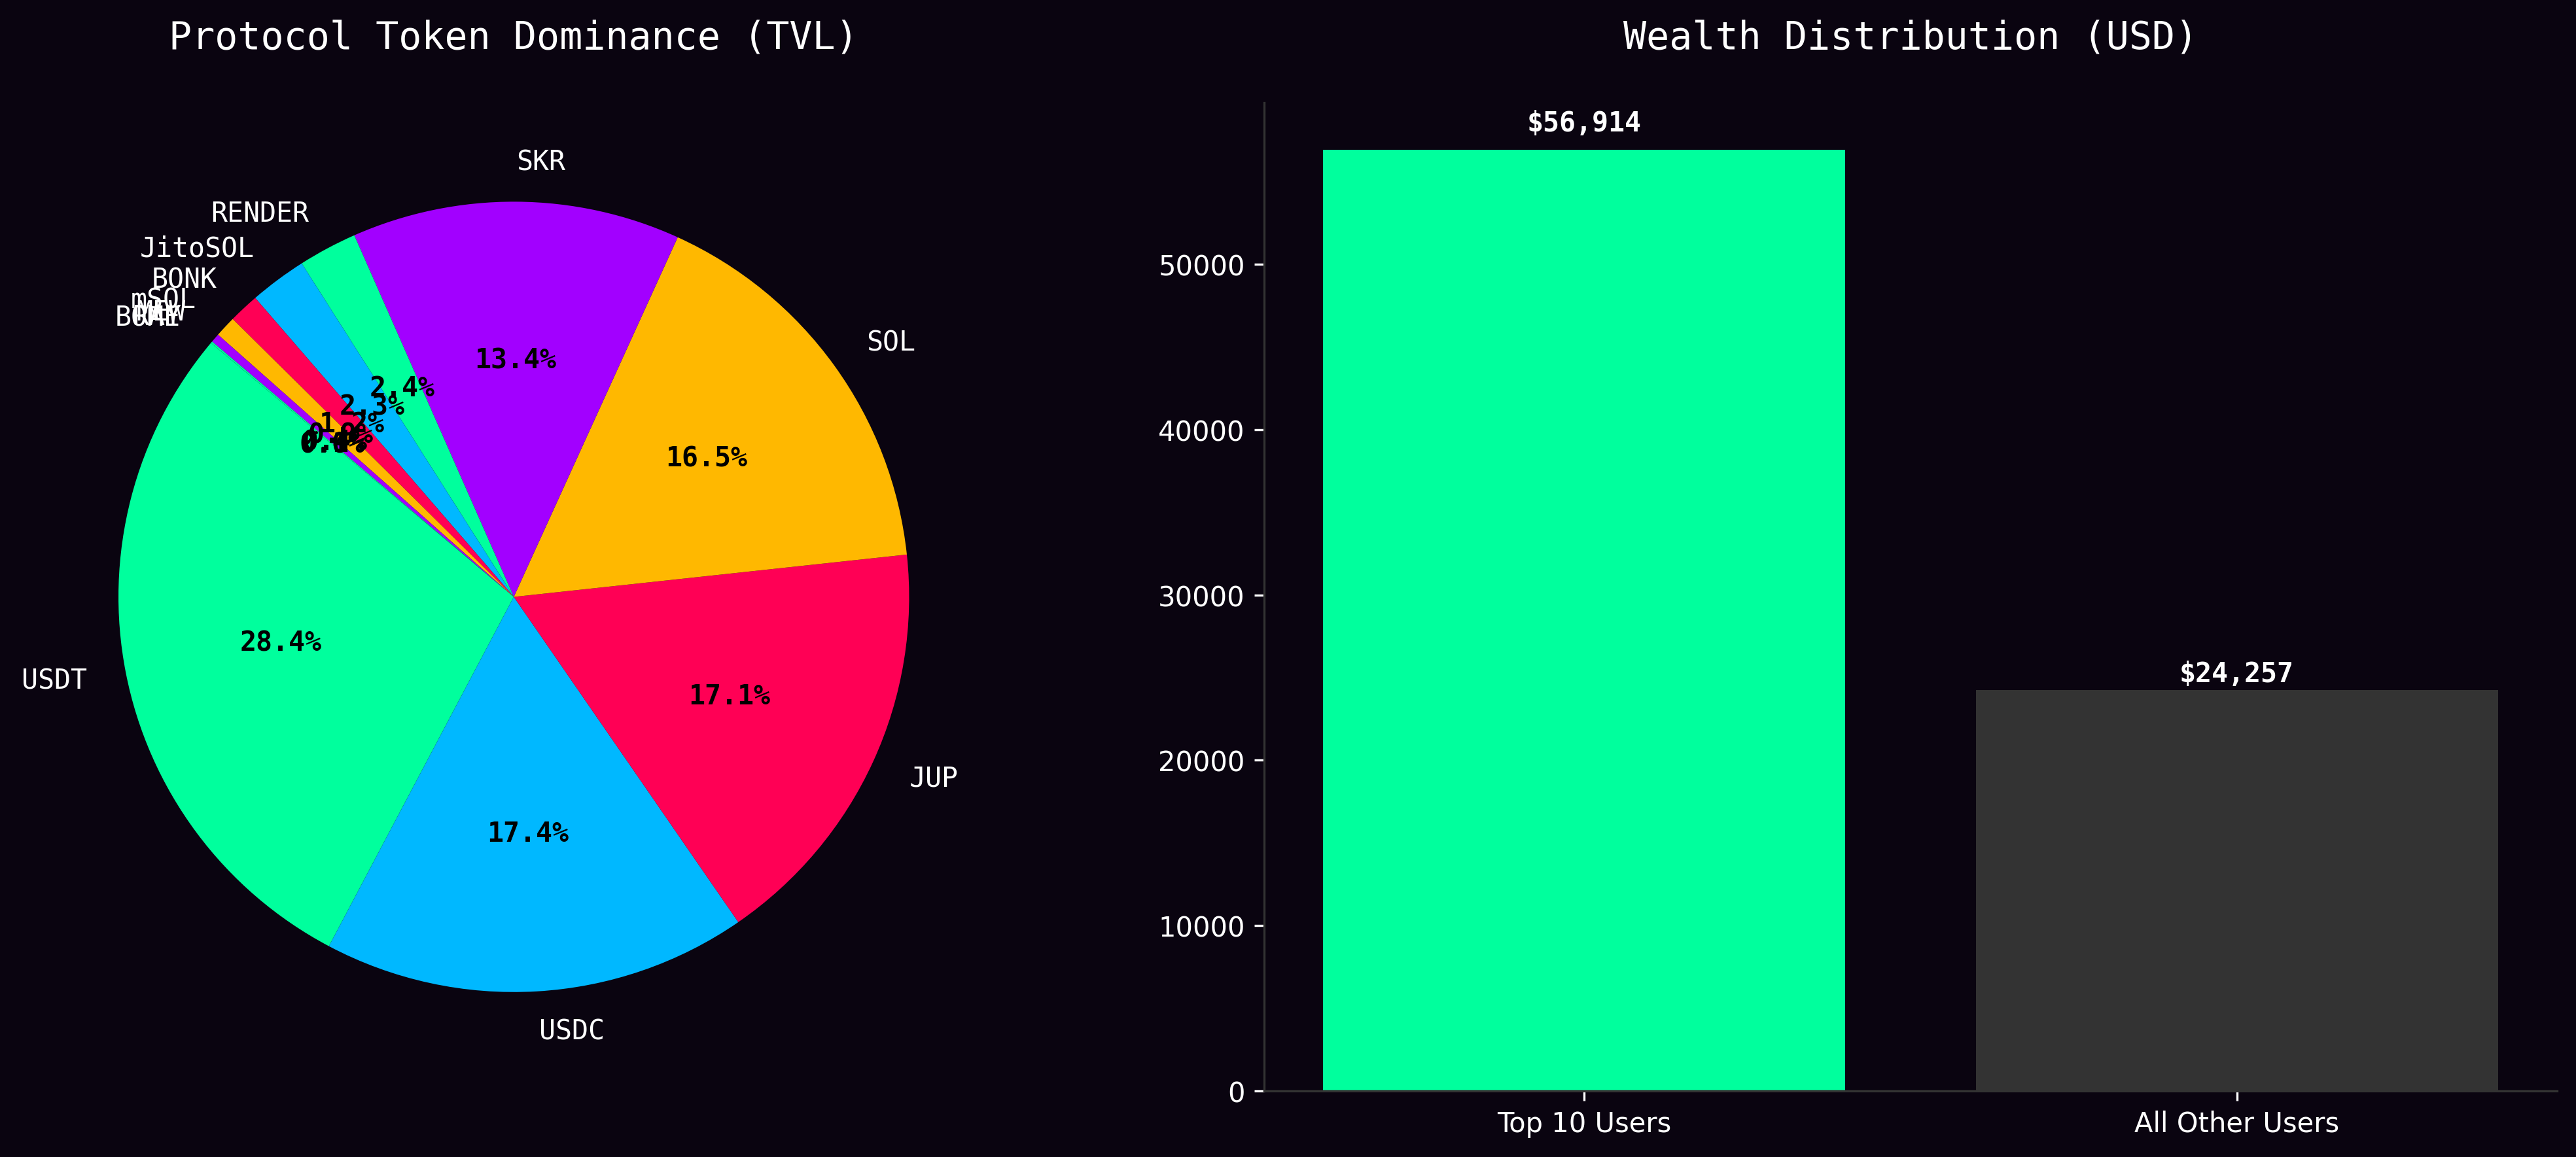
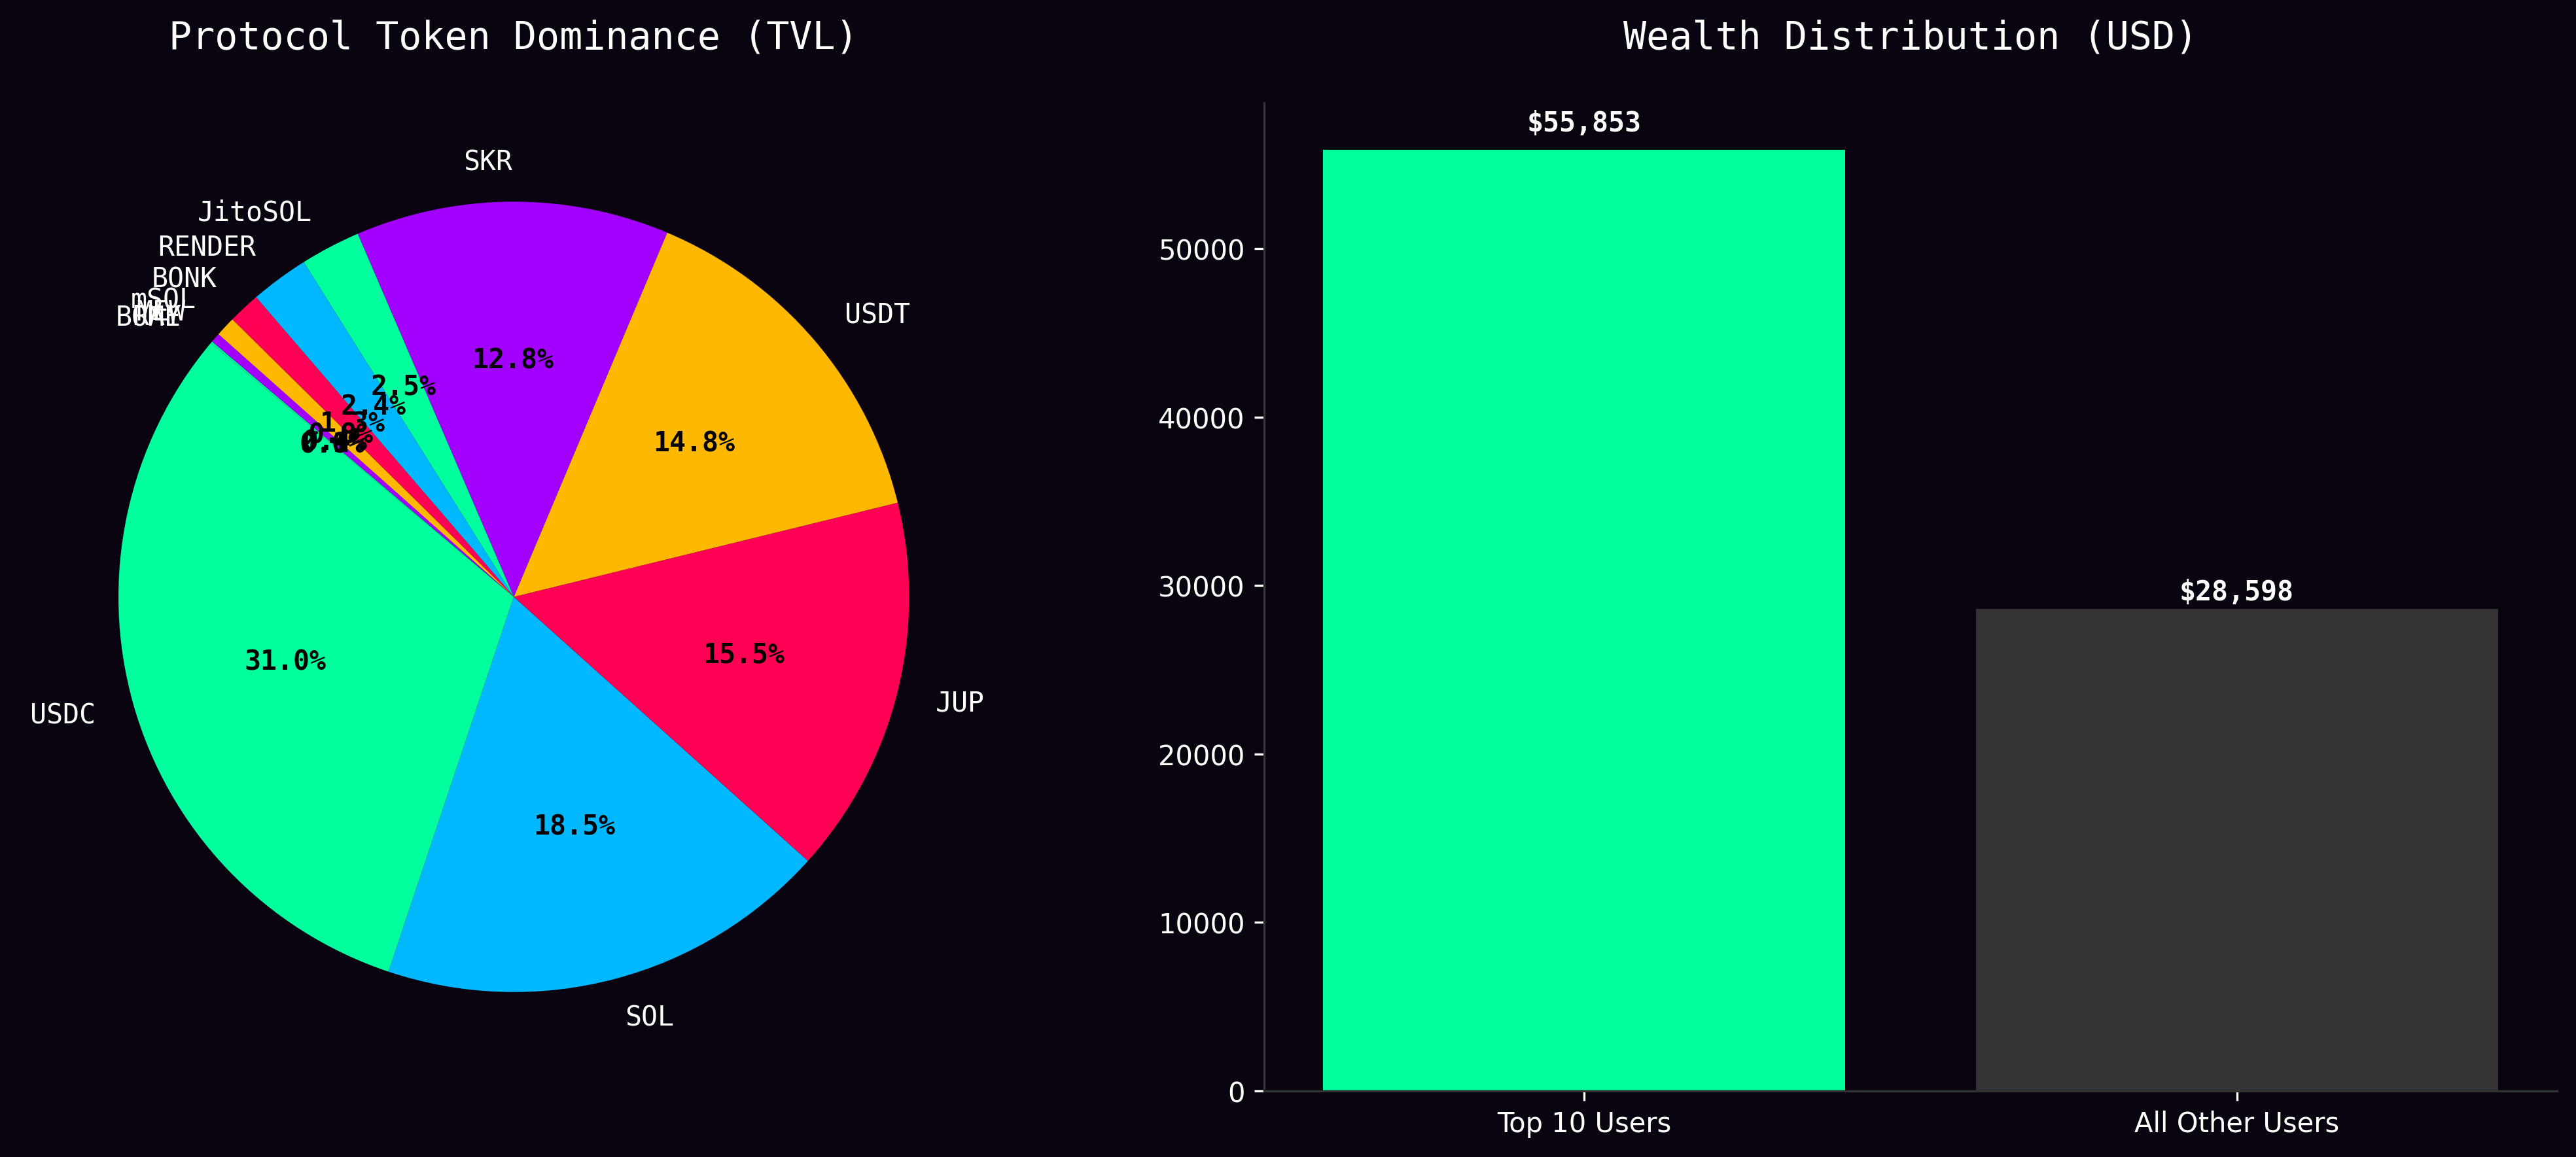
feat: created endpoint for fetch more transactions

diff --git a/backend/NextVibeAPI/wallet/view/load_more_transactions_view.py b/backend/NextVibeAPI/wallet/view/load_more_transactions_view.py
@@ -1,0 +1,52 @@
+import logging
+import httpx
+from django.conf import settings
+from rest_framework.views import APIView
+from rest_framework.response import Response
+from rest_framework.permissions import IsAuthenticated
+
+logger = logging.getLogger(__name__)
+
+class LoadMoreTransactionsView(APIView):
+    permission_classes = [IsAuthenticated]
+
+    def post(self, request):
+        wallet_address = request.user.wallet_address
+        if not wallet_address:
+            return Response({"error": "User has no wallet"}, status=400)
+
+        if not settings.INDEXER_INTERNAL_SECRET or not settings.INDEXER_URL:
+            logger.error("Indexer settings are missing in Django settings.")
+            return Response({"error": "Internal server configuration error"}, status=500)
+
+        # Get optional limit from request
+        try:
+            limit = int(request.data.get("limit", 50))
+            if limit > 100:
+                limit = 100
+        except ValueError:
+            limit = 50
+
+        indexer_url = f"{settings.INDEXER_URL.rstrip('/')}/index/load-more"
+        
+        try:
+            # We use a longer timeout because the indexer needs to fetch from Helius and insert into DB
+            response = httpx.post(
+                indexer_url,
+                json={
+                    "address": wallet_address,
+                    "limit": limit
+                },
+                headers={"x-internal-secret": settings.INDEXER_INTERNAL_SECRET},
+                timeout=20.0,
+            )
+            
+            response.raise_for_status()
+            return Response(response.json())
+            
+        except httpx.HTTPStatusError as e:
+            logger.error(f"Indexer returned HTTP {e.response.status_code}: {e.response.text}")
+            return Response({"error": "Failed to sync with indexer"}, status=502)
+        except Exception as e:
+            logger.error(f"Failed to communicate with indexer: {str(e)}")
+            return Response({"error": "Failed to communicate with indexer"}, status=502)

diff --git a/backend/NextVibeAPI/wallet/urls.py b/backend/NextVibeAPI/wallet/urls.py
@@ -4,6 +4,7 @@ from .view import (
     GetTokensPriceView,
     SolanaRpcProxyView,
     TransactionsView,
+    LoadMoreTransactionsView,
 )
 
 
@@ -12,4 +13,5 @@ urlpatterns = [
     path("get-tokens-price/", GetTokensPriceView.as_view(), name="get_tokens_price"),
     path("rpc/", SolanaRpcProxyView.as_view(), name="solana_rpc_proxy"),
     path("transactions/", TransactionsView.as_view(), name="transactions"),
+    path("transactions/load-more/", LoadMoreTransactionsView.as_view(), name="transactions_load_more"),
 ]

diff --git a/backend/NextVibeAPI/wallet/view/__init__.py b/backend/NextVibeAPI/wallet/view/__init__.py
@@ -2,3 +2,4 @@ from .get_transaction_fee import GetTransactionFee
 from .get_tokens_price_view import GetTokensPriceView
 from .rpc_proxy import SolanaRpcProxyView
 from .transactions_view import TransactionsView
+from .load_more_transactions_view import LoadMoreTransactionsView